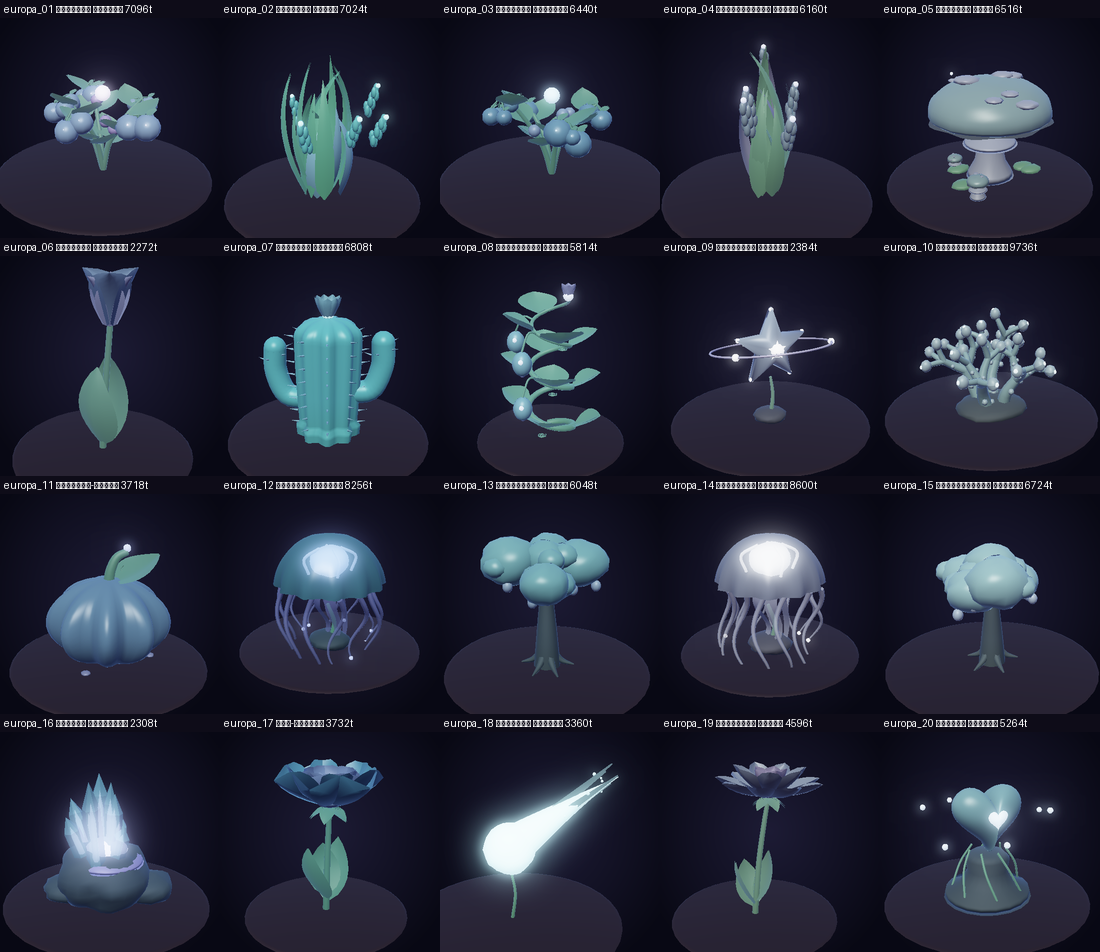
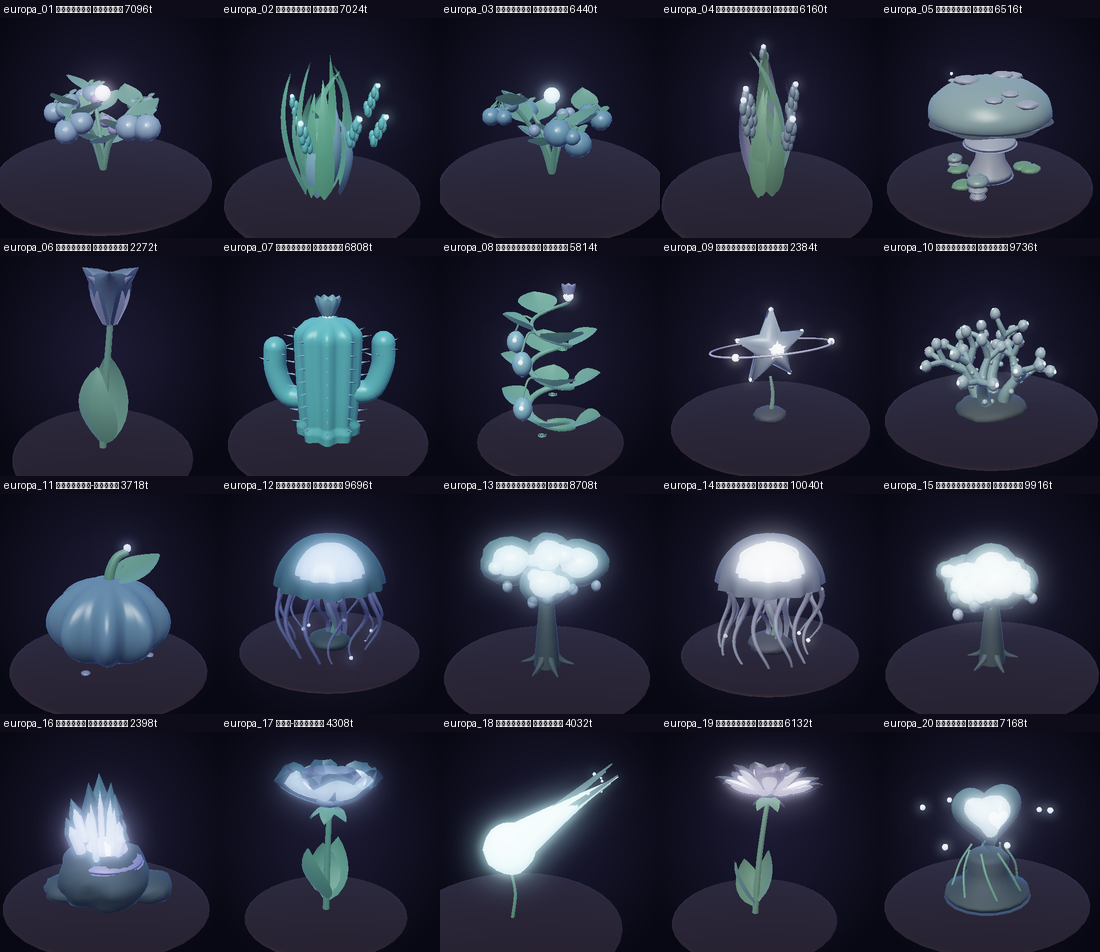
Star Greenhouse: reveal layout fix, jewel fruits with glowing cores for rare plants
Claude-Session: https://claude.ai/code/session_01QQX2NZt89Y7jMYJVxFfdMG

diff --git a/star-greenhouse/tools/mesh/build_all.py b/star-greenhouse/tools/mesh/build_all.py
@@ -3,6 +3,7 @@ python3 build_all.py [planet ...]"""
 import os, re, sys, numpy as np
 sys.path.insert(0, os.path.dirname(__file__))
 import forms, render, preview
+from geom import Mesh as Mesh_
 from glb import write_glb
 
 ROOT = os.path.join(os.path.dirname(__file__), "..", "..")
@@ -23,6 +24,42 @@ def parse_plants():
     return out
 
 
+def components(m):
+    """Связные куски меша (вершины на одном месте считаются общими): список массивов индексов треугольников."""
+    key = np.round(m.v / 1e-4).astype(np.int64)
+    _, uid = np.unique(key, axis=0, return_inverse=True)
+    uid = uid.reshape(-1)
+    parent = np.arange(uid.max() + 1)
+
+    def find(a):
+        while parent[a] != a:
+            parent[a] = parent[parent[a]]
+            a = parent[a]
+        return a
+    for f in uid[m.i]:
+        ra, rb, rc = find(f[0]), find(f[1]), find(f[2])
+        parent[rb] = ra
+        parent[find(rc)] = ra
+    roots = np.array([find(uid[f[0]]) for f in m.i])
+    return [np.where(roots == r)[0] for r in np.unique(roots)]
+
+
+def glow_core(m, k=0.62):
+    """Светящаяся сердцевина: каждый объёмный плод уменьшается вокруг своего центра (плоские лепестки пропускаются)."""
+    out = Mesh_()
+    for faces in components(m):
+        idx = np.unique(m.i[faces])
+        pts = m.v[idx]
+        ext = pts.max(0) - pts.min(0)
+        if ext.min() < 0.3 * ext.max() or ext.max() < 0.05:
+            continue
+        c = pts.mean(0)
+        remap = {int(o): j for j, o in enumerate(idx)}
+        tri = np.vectorize(remap.get)(m.i[faces])
+        out.add(Mesh_(c + (pts - c) * k, m.n[idx], tri))
+    return out
+
+
 def build(p):
     rng = np.random.default_rng(p["index"] * 977 + 13)
     lvl = RANK[p["rarity"]] / 5.0
@@ -33,6 +70,11 @@ def build(p):
         m = m.copy()
         m.fix_winding()
         out[role] = m.xform(None, (0, 0, 0), sc)
+    # редкие и выше: плоды-драгоценности — стеклянная оболочка и светящаяся сердцевина внутри (роль C)
+    if RANK[p["rarity"]] >= 2 and "F" in out:
+        core = glow_core(out["F"])
+        if len(core.v):
+            out["C"] = core
     return out
 
 

diff --git a/star-greenhouse/tools/mesh/preview.py b/star-greenhouse/tools/mesh/preview.py
@@ -7,15 +7,17 @@ from PIL import Image
 def col(h): return np.array(h)/255.0
 STYLE = {
     "F": dict(spec=0.55, shin=60), "A": dict(spec=0.35, shin=40), "L": dict(spec=0.2, shin=18, wrap=0.6),
-    "G": dict(spec=0.0, shin=10, emit=1.0), "R": dict(spec=0.05, shin=8),
+    "G": dict(spec=0.0, shin=10, emit=1.0), "R": dict(spec=0.05, shin=8), "C": dict(spec=0.0, shin=10, emit=1.0),
 }
 def layers_for(parts, c1, c2, style_over=None):
     leafc = c1*0.4 + np.array([70,150,80])/255*0.6
-    colors = {"F": c1, "A": c2, "L": leafc, "G": np.minimum(1, c2*1.15 + 0.1), "R": c1*0.25 + np.array([40,38,50])/255*0.6}
+    colors = {"F": c1, "A": c2, "L": leafc, "G": np.minimum(1, c2*1.15 + 0.1), "R": c1*0.25 + np.array([40,38,50])/255*0.6,
+              "C": np.minimum(1, c2 * 0.8 + 0.25)}
     out = []
     for role, m in parts.items():
         pr = dict(STYLE[role]); pr["color"] = colors[role]
         if style_over and role in style_over: pr.update(style_over[role])
+        if role == "F" and "C" in parts: pr.update(alpha=0.55, spec=0.9, shin=90)
         out.append((m, pr))
     return out
 

diff --git a/star-greenhouse/docs/STATUS.md b/star-greenhouse/docs/STATUS.md
@@ -181,3 +181,7 @@
 
 ## v80
 - Админка: «Монеты x10» вместо +1Qa (минимум +1Qa).
+
+## v81
+- Экран находки: название, шанс и кнопка «Круто!» стоят друг под другом и не перекрываются; в превью нет частиц, служебных деталей и материала ForceField (в ViewportFrame рисовались квадратами).
+- Растения редкие и выше — «драгоценности»: стеклянные плоды со светящейся сердцевиной (роль C в мешах, tools/mesh/build_all.py glow_core). Мутации перекрашивают сердцевину. Новые ассеты всех 6 планет.
